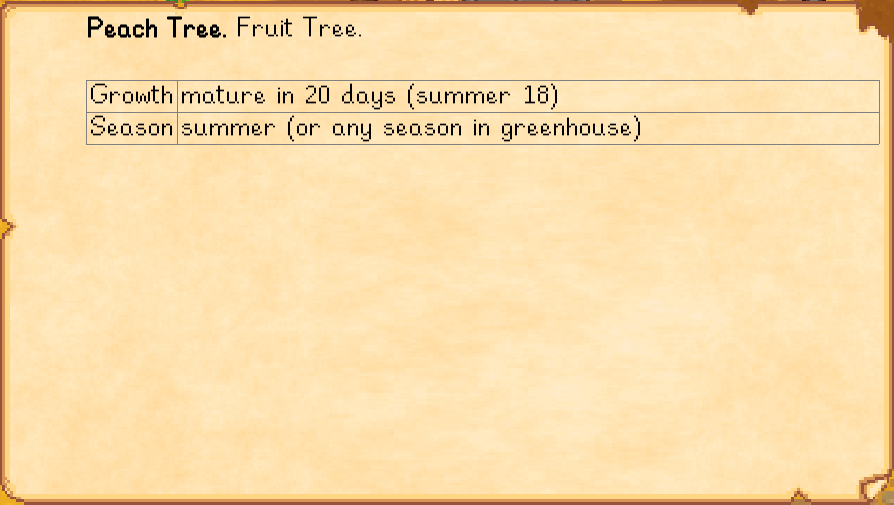
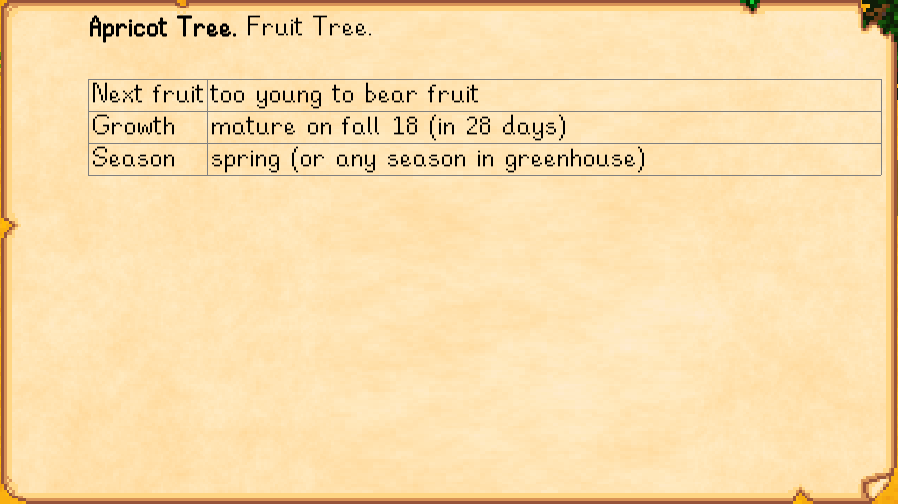
tweak some fields

Changed region(s): [[0.0, 0.0, 1.0, 1.0], [0.8758, 0.9524, 0.906, 1.0]]

diff --git a/LookupAnything/Framework/Subjects/CropSubject.cs b/LookupAnything/Framework/Subjects/CropSubject.cs
@@ -67,7 +67,7 @@ namespace Pathoschild.LookupAnything.Framework.Subjects
             else if (Game1.currentLocation.Name != Constant.LocationNames.Greenhouse && !crop.seasonsToGrowIn.Contains(dayOfNextHarvest.Item1))
                 nextHarvestSummary = $"too late in the season for the next harvest (would be on {dayOfNextHarvest.Item1} {dayOfNextHarvest.Item2})";
             else
-                nextHarvestSummary = $"in {daysToNextHarvest} {GameHelper.Pluralise(daysToNextHarvest, "day")} ({dayOfNextHarvest.Item1} {dayOfNextHarvest.Item2})";
+                nextHarvestSummary = $"{dayOfNextHarvest.Item1} {dayOfNextHarvest.Item2} ({GameHelper.Pluralise(daysToNextHarvest, "tomorrow", $"in {daysToNextHarvest} days")})";
 
             // yield crop fields
             if (crop.dead)
@@ -75,7 +75,7 @@ namespace Pathoschild.LookupAnything.Framework.Subjects
             else
             {
                 yield return new GenericField("Next harvest", nextHarvestSummary, hasValue: !crop.dead);
-                yield return new GenericField("Crop schedule", $"grows in {string.Join(", ", crop.seasonsToGrowIn)}; harvest after {daysToFirstHarvest} {GameHelper.Pluralise(daysToFirstHarvest, "day")}" + (crop.regrowAfterHarvest != -1 ? $", then every {crop.regrowAfterHarvest} {GameHelper.Pluralise(crop.regrowAfterHarvest, "day")}" : ""));
+                yield return new GenericField("Schedule", $"after {daysToFirstHarvest} {GameHelper.Pluralise(daysToFirstHarvest, "day")}" + (crop.regrowAfterHarvest != -1 ? $", then every {GameHelper.Pluralise(crop.regrowAfterHarvest, "day", $"{crop.regrowAfterHarvest} days")}" : "") + $" (in {string.Join(", ", crop.seasonsToGrowIn)})");
                 yield return new GenericField("Crop drops", crop.minHarvest != crop.maxHarvest && crop.chanceForExtraCrops > 0
                     ? $"{crop.minHarvest} to {crop.maxHarvest} ({Math.Round(crop.chanceForExtraCrops * 100, 2)}% chance of extra crops)"
                     : Math.Max(crop.minHarvest, 1).ToString()

diff --git a/LookupAnything/Framework/Subjects/FruitTreeSubject.cs b/LookupAnything/Framework/Subjects/FruitTreeSubject.cs
@@ -50,10 +50,12 @@ namespace Pathoschild.LookupAnything.Framework.Subjects
             if (!isMature)
             {
                 System.Tuple<string, int> dayOfMaturity = GameHelper.GetDayOffset(tree.daysUntilMature, metadata.Constants.DaysInSeason);
-                string growthText = $"mature in {tree.daysUntilMature} {GameHelper.Pluralise(tree.daysUntilMature, "day")} ({dayOfMaturity.Item1} {dayOfMaturity.Item2})";
-                if (this.HasAdjacentObjects(this.Tile))
-                    growthText += " (can't grow because there are adjacent objects)";
+                string growthText = $"mature on {dayOfMaturity.Item1} {dayOfMaturity.Item2} ({GameHelper.Pluralise(tree.daysUntilMature, "tomorrow", $"in {tree.daysUntilMature} days")})";
+
+                yield return new GenericField("Next fruit", "too young to bear fruit");
                 yield return new GenericField("Growth", growthText);
+                if (this.HasAdjacentObjects(this.Tile))
+                    yield return new GenericField("Complaints", "can't grow because there are adjacent objects");
             }
 
             // show next fruit
@@ -62,7 +64,7 @@ namespace Pathoschild.LookupAnything.Framework.Subjects
                 if (isStruckByLightning)
                     yield return new GenericField("Next fruit", $"struck by lightning! Will recover in {tree.struckByLightningCountdown} days.");
                 else if (Game1.currentSeason != tree.fruitSeason && !tree.greenHouseTree)
-                    yield return new GenericField("Next fruit", $"only grows in {tree.fruitSeason} (unless it's in the greenhouse)");
+                    yield return new GenericField("Next fruit", "out of season");
                 else if (tree.fruitsOnTree == FruitTree.maxFruitsOnTrees)
                     yield return new GenericField("Next fruit", "won't grow any more fruit until you harvest those it has");
                 else

diff --git a/LookupAnything/Framework/Subjects/FarmAnimalSubject.cs b/LookupAnything/Framework/Subjects/FarmAnimalSubject.cs
@@ -52,9 +52,8 @@ namespace Pathoschild.LookupAnything.Framework.Subjects
             yield return new GenericField("Mood today", animal.getMoodMessage());
             yield return new GenericField("Complaints", this.GetMoodReason(animal));
             yield return new GenericField("Produce ready", animal.currentProduce > 0 ? new StardewValley.Object(animal.currentProduce, 1).name : null);
-            yield return new GenericField("Petted today", animal.wasPet);
             if (!isFullyGrown)
-                yield return new GenericField("Adult in", $"{daysUntilGrown} {GameHelper.Pluralise(daysUntilGrown, "day")} (on {dayOfMaturity.Item1} {dayOfMaturity.Item2})");
+                yield return new GenericField("Growth", $"{daysUntilGrown} {GameHelper.Pluralise(daysUntilGrown, "day")} (on {dayOfMaturity.Item1} {dayOfMaturity.Item2})");
             yield return new SaleValueField("Sells for", animal.getSellPrice(), 1);
         }
 
